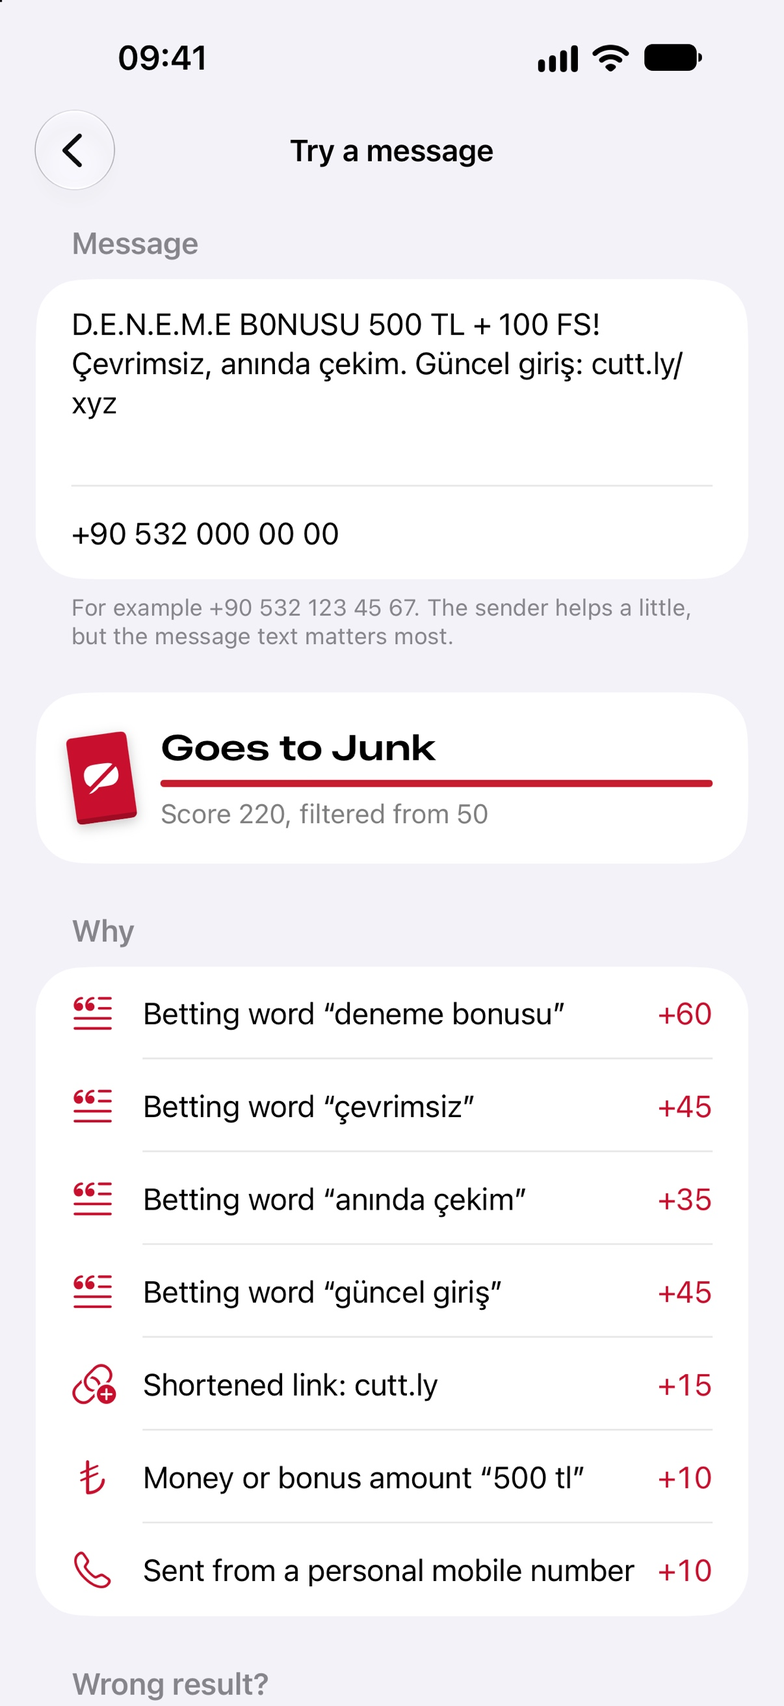
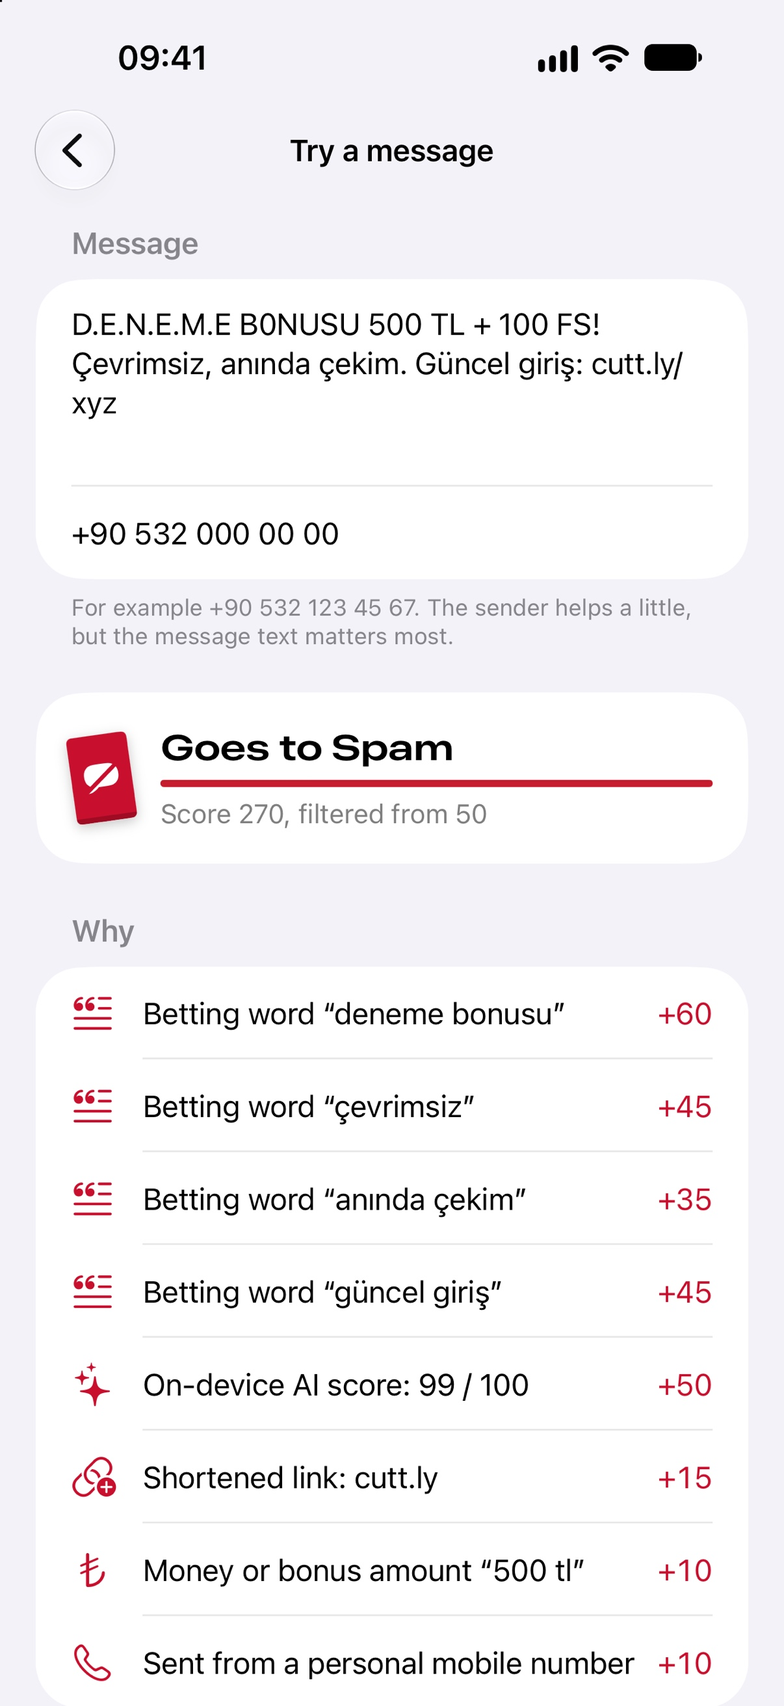
1.0.1: use current iOS names for the spam list and settings
iOS 26 renamed Junk to Spam (Turkish: İstenmeyen) and the settings to
Unknown & Spam › Text Message Filter. The app, store texts, README and
web pages now use those names, and the filter button is no longer
described as top left. About explains how to turn on SMS/Call
Reporting. The screenshot script also writes the 6.3-inch JPEGs.

diff --git a/RedCard/Features/About/AboutView.swift b/RedCard/Features/About/AboutView.swift
@@ -17,7 +17,8 @@ struct AboutView: View {
             }
 
             Section("Missed a bet message?") {
-                Label("In Messages, report the message as junk and choose Red Card. It helps the filter learn new bet messages for everyone.", systemImage: "arrowshape.turn.up.right")
+                Label("In Messages, report the message as spam and choose Red Card. It helps the filter learn new bet messages for everyone.", systemImage: "arrowshape.turn.up.right")
+                Label("If Red Card isn't offered when you report, turn it on once: Settings › Apps › Phone › SMS/Call Reporting › Red Card.", systemImage: "gearshape")
             }
 
             Section("What Red Card checks") {
@@ -28,7 +29,7 @@ struct AboutView: View {
 
             Section("What iOS doesn't allow") {
                 Label("Messages from your contacts and iMessages are never sent to filters.", systemImage: "person.2")
-                Label("Filters can't delete messages or block numbers. Filtered messages wait in Junk, where you can still read them.", systemImage: "tray")
+                Label("Filters can't delete messages or block numbers. Filtered messages wait in Spam, where you can still read them.", systemImage: "tray")
                 Label("Filters can't keep a count, so Red Card can't show how many messages it filtered.", systemImage: "number")
             }
 

diff --git a/RedCard/Features/Home/HomeView.swift b/RedCard/Features/Home/HomeView.swift
@@ -94,7 +94,7 @@ private struct HomeHeader: View {
                 Text("Bet messages stay out of your inbox.")
                     .font(Theme.headline)
 
-                Text("Red Card checks texts from unknown senders on your iPhone and moves betting and casino adverts to Junk.")
+                Text("Red Card checks texts from unknown senders on your iPhone and moves betting and casino adverts to Spam.")
                     .foregroundStyle(.secondary)
             }
 
@@ -134,9 +134,9 @@ extension Strictness {
 
     var explanation: LocalizedStringResource {
         switch self {
-        case .relaxed: "Only messages that are clearly betting adverts go to Junk. Choose this if a normal message was ever filtered by mistake."
+        case .relaxed: "Only messages that are clearly betting adverts go to Spam. Choose this if a normal message was ever filtered by mistake."
         case .balanced: "Recommended. Catches almost every bet message while leaving bank, cargo and code messages alone."
-        case .strict: "Also catches messages with only a few betting signs. A normal message may occasionally end up in Junk."
+        case .strict: "Also catches messages with only a few betting signs. A normal message may occasionally end up in Spam."
         }
     }
 }

diff --git a/RedCard/Features/Setup/SetupGuideView.swift b/RedCard/Features/Setup/SetupGuideView.swift
@@ -17,7 +17,7 @@ struct SetupGuideView: View {
                     SetupStep(number: 1, text: "Open the Settings app.")
                     SetupStep(number: 2, text: "Scroll down and tap Apps, then Messages.")
                     SetupStep(number: 3, text: "Tap Unknown & Spam.")
-                    SetupStep(number: 4, text: "Under SMS Filtering, choose Red Card.")
+                    SetupStep(number: 4, text: "Under Text Message Filter, choose Red Card.")
                 } header: {
                     Text("Four steps in Settings")
                 } footer: {
@@ -29,7 +29,7 @@ struct SetupGuideView: View {
                 }
 
                 Section("Where filtered messages go") {
-                    Label("In Messages, tap Filters at the top left, then Junk. Filtered messages wait there without a notification.", systemImage: "tray")
+                    Label("In Messages, tap the filter button at the top of the list, then Spam. Filtered messages wait there without a notification.", systemImage: "tray")
                     Label("Messages from your contacts are never checked or filtered.", systemImage: "person.crop.circle.badge.checkmark")
                 }
             }

diff --git a/Server/public/privacy.html b/Server/public/privacy.html
@@ -25,7 +25,7 @@
   <h1>Red Card Gizlilik Politikası</h1>
   <p class="muted">Son güncelleme: 21 Kasım 2026</p>
 
-  <p>Red Card, bahis ve casino SMS'lerini iPhone'unda Gereksiz klasörüne taşıyan ücretsiz bir uygulamadır.
+  <p>Red Card, bahis ve casino SMS'lerini iPhone'unda İstenmeyen klasörüne taşıyan ücretsiz bir uygulamadır.
   Kısaca: <strong>kişisel veri toplanmaz.</strong> Sadece kendi isteğinle bildirdiğin mesajların metni alınır.</p>
 
   <h2>Mesajların</h2>
@@ -61,7 +61,7 @@
   <h1>Red Card Privacy Policy</h1>
   <p class="muted">Last updated: 21 November 2026</p>
 
-  <p>Red Card is a free app that moves betting and casino text messages to Junk on your iPhone.
+  <p>Red Card is a free app that moves betting and casino text messages to Spam on your iPhone.
   In short: <strong>no personal data is collected.</strong> Only the text of messages you choose to report is received.</p>
 
   <h2>Your messages</h2>

diff --git a/RedCard/Features/Rules/RulesView.swift b/RedCard/Features/Rules/RulesView.swift
@@ -86,7 +86,7 @@ extension RuleList {
 
     var footer: LocalizedStringResource {
         switch self {
-        case .blockedWords: "Any message containing one of these goes to Junk. Spelling tricks such as dots between letters are caught too."
+        case .blockedWords: "Any message containing one of these goes to Spam. Spelling tricks such as dots between letters are caught too."
         case .blockedSenders: "Numbers match in any format: 0532…, +90 532… and 532… are the same."
         case .allowedWords: "Messages containing one of these are never filtered, even if they look like betting."
         case .allowedSenders: "Use this for a number whose messages were filtered by mistake. Contacts never need adding: iOS doesn't send their messages to filters."

diff --git a/Server/public/index.html b/Server/public/index.html
@@ -23,8 +23,8 @@
 <main>
   <div class="card" aria-hidden="true"></div>
   <h1>Red Card</h1>
-  <p>Bahis ve casino SMS'lerini iPhone'unda Gereksiz klasörüne taşıyan ücretsiz uygulama. Her şey telefonunda çalışır.</p>
-  <p>A free iPhone app that moves betting and casino texts to Junk, entirely on your phone.</p>
+  <p>Bahis ve casino SMS'lerini iPhone'unda İstenmeyen klasörüne taşıyan ücretsiz uygulama. Her şey telefonunda çalışır.</p>
+  <p>A free iPhone app that moves betting and casino texts to Spam, entirely on your phone.</p>
   <p><a href="/privacy">Gizlilik politikası / Privacy policy</a></p>
 </main>
 </body>

diff --git a/RedCard/Features/Cleanup/CleanupGuideView.swift b/RedCard/Features/Cleanup/CleanupGuideView.swift
@@ -23,7 +23,7 @@ struct CleanupGuideView: View {
             }
 
             Section("On iPhone") {
-                GuideStep(number: 1, text: "Open Messages, tap Filters at the top left and choose Unknown Senders.")
+                GuideStep(number: 1, text: "Open Messages, tap the filter button at the top of the list and choose Unknown Senders.")
                 GuideStep(number: 2, text: "Tap the More button or Edit, then Select Messages.")
                 GuideStep(number: 3, text: "Tap each bet conversation, then tap Delete.")
             }

diff --git a/RedCard/Features/Tester/MessageTesterView.swift b/RedCard/Features/Tester/MessageTesterView.swift
@@ -114,7 +114,7 @@ private struct VerdictSummary: View {
 
             VStack(alignment: .leading, spacing: 6) {
                 // Two separate Text values, so both strings are localized.
-                (verdict.isJunk ? Text("Goes to Junk") : Text("Stays in your inbox"))
+                (verdict.isJunk ? Text("Goes to Spam") : Text("Stays in your inbox"))
                     .font(Theme.verdictTitle)
 
                 Gauge(value: Double(min(max(verdict.score, 0), verdict.threshold)), in: 0...Double(verdict.threshold)) {

diff --git a/Tools/make_strings.py b/Tools/make_strings.py
@@ -19,8 +19,8 @@ TR = {
     "Clean up old messages": "Eski mesajları temizle",
     "How Red Card works": "Red Card nasıl çalışır",
     "Bet messages stay out of your inbox.": "Bet mesajları artık gelen kutuna düşmez.",
-    "Red Card checks texts from unknown senders on your iPhone and moves betting and casino adverts to Junk.":
-        "Red Card, bilinmeyen numaralardan gelen SMS'leri iPhone'unda kontrol eder ve bahis ile casino reklamlarını Gereksiz klasörüne taşır.",
+    "Red Card checks texts from unknown senders on your iPhone and moves betting and casino adverts to Spam.":
+        "Red Card, bilinmeyen numaralardan gelen SMS'leri iPhone'unda kontrol eder ve bahis ile casino reklamlarını İstenmeyen klasörüne taşır.",
     "iOS doesn't tell apps whether the filter is on, so Red Card can't show it here. If bet messages reach your inbox again, check that Red Card is still chosen in Settings.":
         "iOS, filtrenin açık olup olmadığını uygulamalara bildirmiyor; bu yüzden Red Card bunu burada gösteremez. Bet mesajları yine gelen kutuna düşerse Ayarlar'da Red Card'ın hâlâ seçili olduğunu kontrol et.",
     "Check in Settings": "Ayarlar'da kontrol et",
@@ -28,25 +28,27 @@ TR = {
     "Relaxed": "Rahat",
     "Balanced": "Dengeli",
     "Strict": "Sıkı",
-    "Only messages that are clearly betting adverts go to Junk. Choose this if a normal message was ever filtered by mistake.":
-        "Sadece açıkça bahis reklamı olan mesajlar Gereksiz'e gider. Normal bir mesaj yanlışlıkla filtrelendiyse bunu seç.",
+    "Only messages that are clearly betting adverts go to Spam. Choose this if a normal message was ever filtered by mistake.":
+        "Sadece açıkça bahis reklamı olan mesajlar İstenmeyen'e gider. Normal bir mesaj yanlışlıkla filtrelendiyse bunu seç.",
     "Recommended. Catches almost every bet message while leaving bank, cargo and code messages alone.":
         "Önerilen. Bet mesajlarının neredeyse hepsini yakalar; banka, kargo ve doğrulama kodu mesajlarına dokunmaz.",
-    "Also catches messages with only a few betting signs. A normal message may occasionally end up in Junk.":
-        "Az sayıda bahis işareti taşıyan mesajları da yakalar. Ara sıra normal bir mesaj Gereksiz'e düşebilir.",
+    "Also catches messages with only a few betting signs. A normal message may occasionally end up in Spam.":
+        "Az sayıda bahis işareti taşıyan mesajları da yakalar. Ara sıra normal bir mesaj İstenmeyen'e düşebilir.",
 
     # Setup
     "Open the Settings app.": "Ayarlar uygulamasını aç.",
     "Scroll down and tap Apps, then Messages.": "Aşağı kaydır, Uygulamalar'a ve ardından Mesajlar'a dokun.",
-    "Tap Unknown & Spam.": "Bilinmeyen ve Gereksiz'e dokun.",
-    "Under SMS Filtering, choose Red Card.": "SMS Filtreleme altında Red Card'ı seç.",
+    "Tap Unknown & Spam.":
+        "Bilinmeyen ve İstenmeyen'e dokun.",
+    "Under Text Message Filter, choose Red Card.":
+        "Mesaj Filtresi altında Red Card'ı seç.",
     "Four steps in Settings": "Ayarlar'da dört adım",
     "The button below opens Red Card's page in Settings. Go back once to reach Apps.":
         "Aşağıdaki düğme Ayarlar'da Red Card sayfasını açar. Uygulamalar'a ulaşmak için bir kez geri git.",
     "Open Settings": "Ayarlar'ı aç",
     "Where filtered messages go": "Filtrelenen mesajlar nereye gider",
-    "In Messages, tap Filters at the top left, then Junk. Filtered messages wait there without a notification.":
-        "Mesajlar'da sol üstteki Filtreler'e, ardından Gereksiz'e dokun. Filtrelenen mesajlar orada bildirim göndermeden bekler.",
+    "In Messages, tap the filter button at the top of the list, then Spam. Filtered messages wait there without a notification.":
+        "Mesajlar'da listenin üstündeki filtre düğmesine, ardından İstenmeyen'e dokun. Filtrelenen mesajlar orada bildirim göndermeden bekler.",
     "Messages from your contacts are never checked or filtered.":
         "Rehberindeki kişilerden gelen mesajlar asla kontrol edilmez ve filtrelenmez.",
     "Close": "Kapat",
@@ -60,7 +62,8 @@ TR = {
         "Örneğin +90 532 123 45 67. Gönderen biraz yardımcı olur ama asıl önemli olan mesajın metni.",
     "Why": "Neden",
     "Use a sample bet message": "Örnek bir bet mesajı kullan",
-    "Goes to Junk": "Gereksiz'e gider",
+    "Goes to Spam":
+        "İstenmeyen'e gider",
     "Stays in your inbox": "Gelen kutunda kalır",
     "Score": "Puan",
     "Score %lld, filtered from %lld": "Puan %1$lld, filtre sınırı %2$lld",
@@ -96,8 +99,8 @@ TR = {
     "Never filter these senders": "Bu gönderenleri asla filtreleme",
     "Add a word or phrase": "Kelime veya ifade ekle",
     "Add a phone number": "Telefon numarası ekle",
-    "Any message containing one of these goes to Junk. Spelling tricks such as dots between letters are caught too.":
-        "Bunlardan birini içeren her mesaj Gereksiz'e gider. Harflerin arasına nokta koymak gibi yazım hileleri de yakalanır.",
+    "Any message containing one of these goes to Spam. Spelling tricks such as dots between letters are caught too.":
+        "Bunlardan birini içeren her mesaj İstenmeyen'e gider. Harflerin arasına nokta koymak gibi yazım hileleri de yakalanır.",
     "Numbers match in any format: 0532…, +90 532… and 532… are the same.":
         "Numaralar her biçimde eşleşir: 0532…, +90 532… ve 532… aynı kabul edilir.",
     "Messages containing one of these are never filtered, even if they look like betting.":
@@ -120,8 +123,8 @@ TR = {
     "Hundreds of conversations can be selected and deleted at once this way.":
         "Bu yolla yüzlerce sohbeti tek seferde seçip silebilirsin.",
     "On iPhone": "iPhone'da",
-    "Open Messages, tap Filters at the top left and choose Unknown Senders.":
-        "Mesajlar'ı aç, sol üstteki Filtreler'e dokun ve Bilinmeyen Gönderenler'i seç.",
+    "Open Messages, tap the filter button at the top of the list and choose Unknown Senders.":
+        "Mesajlar'ı aç, listenin üstündeki filtre düğmesine dokun ve Bilinmeyen Gönderenler'i seç.",
     "Tap the More button or Edit, then Select Messages.":
         "Diğer (⋯) düğmesine ya da Düzenle'ye, ardından Mesajları Seç'e dokun.",
     "Tap each bet conversation, then tap Delete.": "Her bet sohbetine dokun, ardından Sil'e dokun.",
@@ -134,8 +137,10 @@ TR = {
         "Tek istisna, Mesajlar'dan kendin bildirdiğin bir mesajdır: o zaman mesajın metni Red Card'a gönderilir; senin numaran ve gönderenin numarası gönderilmez.",
     "Privacy policy": "Gizlilik politikası",
     "Missed a bet message?": "Kaçan bir bet mesajı mı var?",
-    "In Messages, report the message as junk and choose Red Card. It helps the filter learn new bet messages for everyone.":
-        "Mesajlar'da mesajı gereksiz olarak bildir ve Red Card'ı seç. Bu, filtrenin yeni bet mesajlarını herkes için öğrenmesine yardım eder.",
+    "In Messages, report the message as spam and choose Red Card. It helps the filter learn new bet messages for everyone.":
+        "Mesajlar'da mesajı İstenmeyen Olarak Bildir ve Red Card'ı seç. Bu, filtrenin yeni bet mesajlarını herkes için öğrenmesine yardım eder.",
+    "If Red Card isn't offered when you report, turn it on once: Settings › Apps › Phone › SMS/Call Reporting › Red Card.":
+        "Bildirirken Red Card çıkmıyorsa bir kez açman yeterli: Ayarlar › Uygulamalar › Telefon › SMS/Arama Raporu › Red Card.",
     "The filter has no internet access and can't store anything, so your messages never leave your phone.":
         "Filtrenin internet erişimi yoktur ve hiçbir şey kaydedemez, yani mesajların telefonundan asla çıkmaz.",
     "What Red Card checks": "Red Card neyi kontrol eder",
@@ -146,8 +151,8 @@ TR = {
     "What iOS doesn't allow": "iOS'un izin vermedikleri",
     "Messages from your contacts and iMessages are never sent to filters.":
         "Rehberindeki kişilerden gelen mesajlar ve iMessage'lar filtrelere hiç gönderilmez.",
-    "Filters can't delete messages or block numbers. Filtered messages wait in Junk, where you can still read them.":
-        "Filtreler mesaj silemez ve numara engelleyemez. Filtrelenen mesajlar Gereksiz klasöründe bekler, istersen yine okuyabilirsin.",
+    "Filters can't delete messages or block numbers. Filtered messages wait in Spam, where you can still read them.":
+        "Filtreler mesaj silemez ve numara engelleyemez. Filtrelenen mesajlar İstenmeyen klasöründe bekler, istersen yine okuyabilirsin.",
     "Filters can't keep a count, so Red Card can't show how many messages it filtered.":
         "Filtreler sayım tutamaz, bu yüzden Red Card kaç mesaj filtrelediğini gösteremez.",
     "Red Card is free, with no ads and no in-app purchases.":

diff --git a/Docs/AppStore.md b/Docs/AppStore.md
@@ -25,13 +25,13 @@ Karakter sınırları Apple'ın sınırlarıdır; hepsi kontrol edildi.
 **Alt başlık** (en fazla 30): `Bahis ve casino SMS'lerine son`
 
 **Tanıtım metni** (en fazla 170):
-> Bet sitelerinden gelen SMS'ler artık bildirim göndermeden Gereksiz klasörüne gider. Ücretsiz, reklamsız ve tamamen telefonunda çalışır.
+> Bet sitelerinden gelen SMS'ler artık bildirim göndermeden İstenmeyen klasörüne gider. Ücretsiz, reklamsız ve tamamen telefonunda çalışır.
 
 **Anahtar kelimeler** (en fazla 100, virgülle):
-`bahis,casino,spam,sms,filtre,engelle,bonus,kumar,gereksiz,mesaj,bet,iddaa,slot,reklam,engelleyici`
+`bahis,casino,spam,sms,filtre,engelle,bonus,kumar,istenmeyen,mesaj,bet,iddaa,slot,reklam,engelleyici`
 
 **Açıklama:**
-> Her gün gelen "deneme bonusu", "çevrimsiz freespin", "güncel giriş adresi" mesajlarından bıktın mı? Red Card bu mesajları tanır ve sessizce Gereksiz klasörüne taşır. Bildirim gelmez, gelen kutun temiz kalır.
+> Her gün gelen "deneme bonusu", "çevrimsiz freespin", "güncel giriş adresi" mesajlarından bıktın mı? Red Card bu mesajları tanır ve sessizce İstenmeyen klasörüne taşır. Bildirim gelmez, gelen kutun temiz kalır.
 >
 > NASIL ÇALIŞIR
 > Red Card, rehberinde olmayan numaralardan gelen SMS'leri Apple'ın SMS filtreleme altyapısıyla kontrol eder. Bahis kelimelerine, bet sitesi adlarına ve linklerine, bonus miktarlarına bakar. Spam gönderenlerin kullandığı hileleri de çözer: harflerin arasına nokta koymak (B.O.N.U.S), harf yerine rakam kullanmak (fr3esp1n), görünmez karakterler veya benzer görünen yabancı harfler.
@@ -56,7 +56,7 @@ Karakter sınırları Apple'ın sınırlarıdır; hepsi kontrol edildi.
 >
 > Tamamen ücretsizdir. Uygulama içi satın alma yoktur.
 >
-> Not: iOS, rehberindeki kişilerden gelen mesajları ve iMessage'ları filtrelere göndermez. Filtreler mesaj silemez; filtrelenen mesajlar Gereksiz klasöründe durur.
+> Not: iOS, rehberindeki kişilerden gelen mesajları ve iMessage'ları filtrelere göndermez. Filtreler mesaj silemez; filtrelenen mesajlar İstenmeyen klasöründe durur.
 
 **Bu sürümdeki yenilikler:**
 > Red Card'ın ilk sürümü.
@@ -68,13 +68,13 @@ Karakter sınırları Apple'ın sınırlarıdır; hepsi kontrol edildi.
 **Subtitle** (max 30): `Keeps gambling texts away`
 
 **Promotional text** (max 170):
-> Texts from betting and casino sites now go straight to Junk, with no notification. Free, no ads, and it all runs on your iPhone.
+> Texts from betting and casino sites now go straight to Spam, with no notification. Free, no ads, and it all runs on your iPhone.
 
 **Keywords** (max 100):
 `betting,casino,gambling,spam,sms,filter,blocker,junk,text,bonus,slots,messages,block`
 
 **Description:**
-> Tired of daily texts offering bonuses, free spins and "new login addresses"? Red Card recognises betting and casino adverts and quietly moves them to Junk. No notification, a clean inbox.
+> Tired of daily texts offering bonuses, free spins and "new login addresses"? Red Card recognises betting and casino adverts and quietly moves them to Spam. No notification, a clean inbox.
 >
 > HOW IT WORKS
 > Red Card checks texts from numbers that aren't in your contacts, using Apple's SMS filtering system. It looks for betting words, betting site names and links, and bonus amounts, and sees through the tricks spammers use: dots between letters (B.O.N.U.S), digits instead of letters (fr3esp1n), invisible characters and look-alike letters from other alphabets.
@@ -99,10 +99,22 @@ Karakter sınırları Apple'ın sınırlarıdır; hepsi kontrol edildi.
 >
 > Completely free, with no in-app purchases.
 >
-> Note: iOS never sends messages from your contacts or iMessages to filters. Filters can't delete messages; filtered messages stay in Junk.
+> Note: iOS never sends messages from your contacts or iMessages to filters. Filters can't delete messages; filtered messages stay in Spam.
 
 **What's new:**
 > The first version of Red Card.
+
+## Bu sürümdeki yenilikler (What's New) — 1.0.1
+
+Türkçe:
+> • Metinler iOS'un güncel adlarına uyarlandı: filtrelenen mesajlar Mesajlar'daki "İstenmeyen" listesine gider.
+> • Kurulum rehberi yeni ayar adlarını gösteriyor (Bilinmeyen ve İstenmeyen › Mesaj Filtresi).
+> • Bildirirken Red Card çıkmıyorsa nasıl açılacağı eklendi (Telefon › SMS/Arama Raporu).
+
+English:
+> • Wording now matches current iOS: filtered texts go to the "Spam" list in Messages.
+> • The setup guide shows the new setting names (Unknown & Spam › Text Message Filter).
+> • Explains how to turn on reporting if Red Card isn't offered (Phone › SMS/Call Reporting).
 
 ## Uygulama gizliliği (App Privacy)
 
@@ -120,9 +132,9 @@ Kural dosyasını indirmek veri toplama sayılmaz, uygulama o sırada hiçbir ve
 
 ## İnceleme ekibi için not (App Review Information)
 
-> Red Card is an SMS filter (Message Filter Extension). To test it: Settings › Apps › Messages › Unknown & Spam › SMS Filtering › choose Red Card. Then send an SMS from a number that is not in the device's contacts, for example: "Deneme bonusu 500 TL, guncel giris: bit.ly/abc". It is moved to Messages › Filters › Junk.
+> Red Card is an SMS filter (Message Filter Extension). To test it: Settings › Apps › Messages › Unknown & Spam › Text Message Filter › choose Red Card. Then send an SMS from a number that is not in the device's contacts, for example: "Deneme bonusu 500 TL, guncel giris: bit.ly/abc". It is moved to the Spam list in Messages (filter button › Spam).
 > The "Try a message" screen in the app shows the same classification without sending an SMS (tap "Use a sample bet message").
-> The filter runs entirely on the device and has no network access; a small bundled Core ML text model also runs on the device. The only data that leaves the device is a message the user chooses to report from Messages (Report Junk › Red Card): the message text, the kind of sender and the app's own score are sent to https://redcard.batudev.com/api/report. No phone numbers or identifiers are sent.
+> The filter runs entirely on the device and has no network access; a small bundled Core ML text model also runs on the device. The only data that leaves the device is a message the user chooses to report from Messages (Report Spam › Red Card): the message text, the kind of sender and the app's own score are sent to https://redcard.batudev.com/api/report. No phone numbers or identifiers are sent.
 
 Giriş bilgisi gerekmez (uygulamada hesap yok).
 

diff --git a/README.md b/README.md
@@ -1,6 +1,6 @@
 # Red Card
 
-Türkçe bet / casino SMS'lerini **Gereksiz** klasörüne taşıyan ücretsiz, açık kaynak bir iPhone uygulaması.
+Türkçe bet / casino SMS'lerini **İstenmeyen** klasörüne taşıyan ücretsiz, açık kaynak bir iPhone uygulaması.
 Filtre tamamen telefonda çalışır: internet yok, kayıt yok. Telefondan çıkan tek şey, kullanıcının
 Mesajlar'dan **kendisinin bildirdiği** kaçan bir mesajın metnidir (numara ve kimlik bilgisi olmadan).
 
@@ -25,7 +25,7 @@ Mesajlar'dan **kendisinin bildirdiği** kaçan bir mesajın metnidir (numara ve 
    geliştirici hesabını seç (şu an `CUW625DYY8`).
 3. iPhone'u bağla (Geliştirici Modu açık olmalı), cihazı seç ve ▶ ile çalıştır.
    SMS filtresi simülatörde test edilemez.
-4. Telefonda: **Ayarlar › Uygulamalar › Mesajlar › Bilinmeyen ve Gereksiz › SMS Filtreleme › Red Card**.
+4. Telefonda: **Ayarlar › Uygulamalar › Mesajlar › Bilinmeyen ve İstenmeyen › Mesaj Filtresi › Red Card**.
 
 > Bundle ID (`com.batuhan.redcard`) değişirse App Group'u (`group.com.batuhan.redcard`) üç entitlement dosyasında ve
 > `SharedStore.swift`'te, Apple doğrulama dosyasındaki uygulama kimliklerini de `Server/public/.well-known/` altında güncelle.
